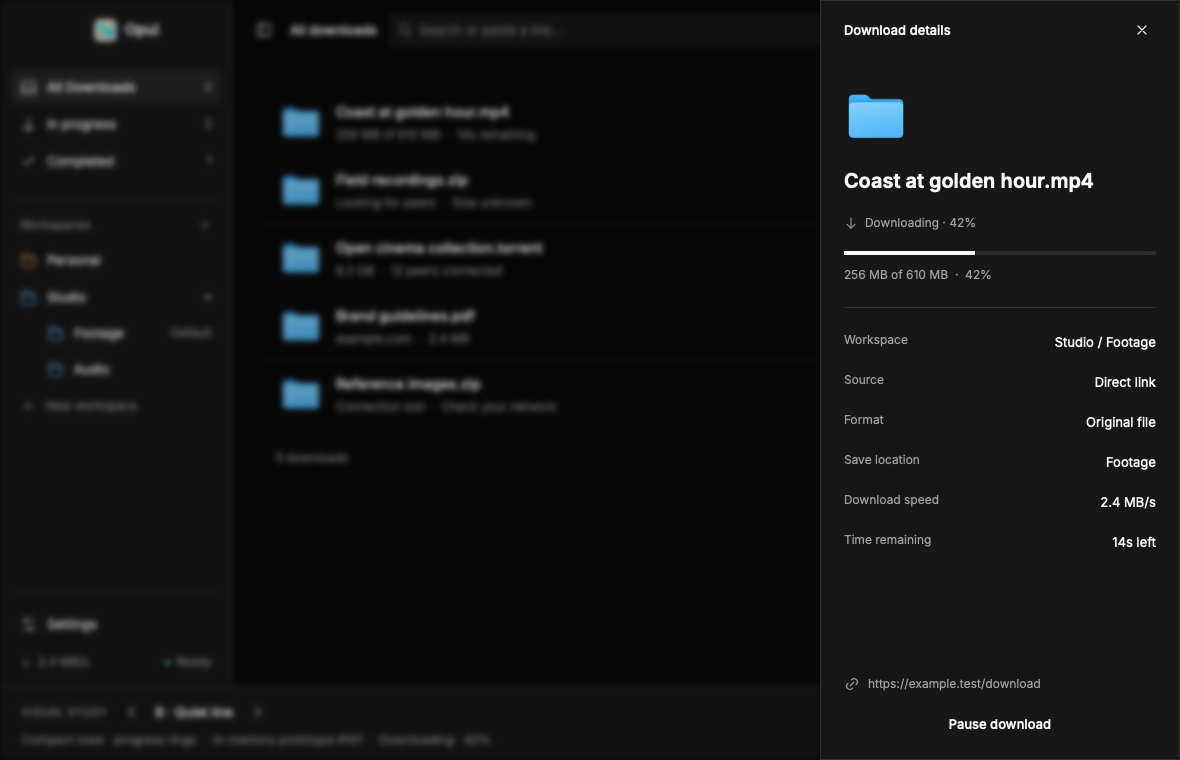
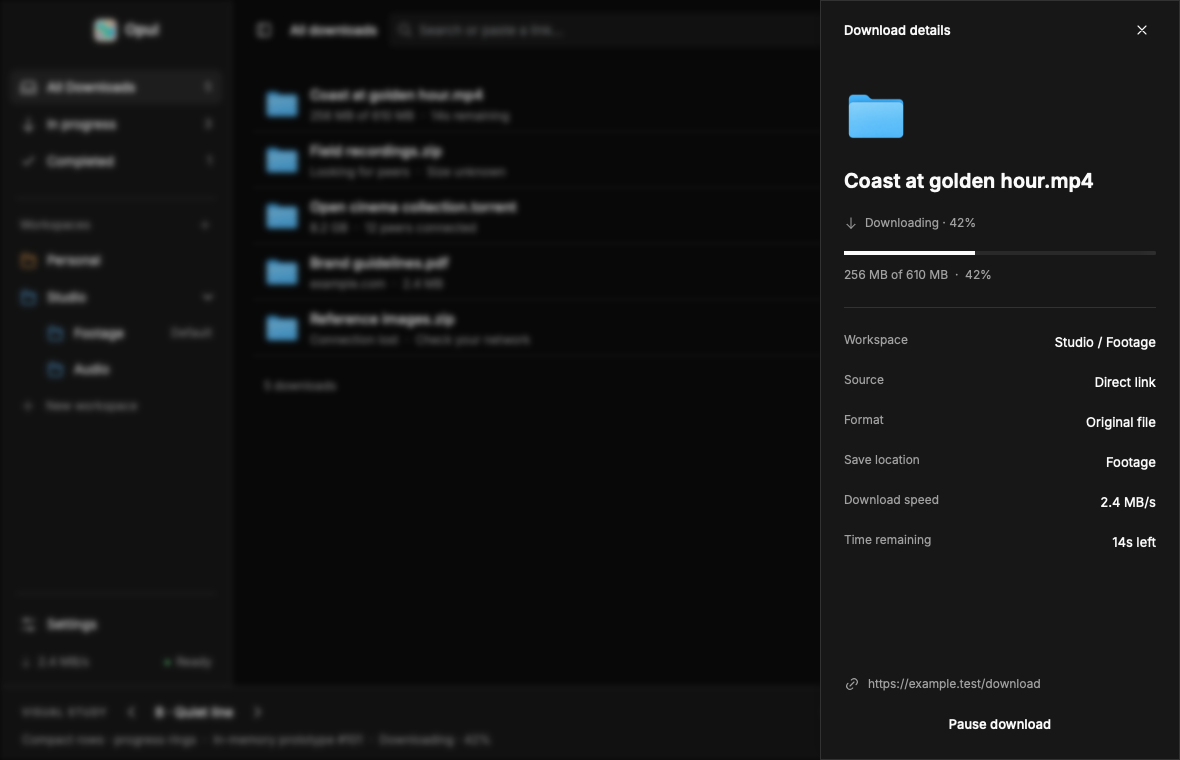
Tighten the minimal prototype list spacing (#101)

Changed region(s): [[0.2136, 0.0908, 0.4576, 0.4539], [0.2136, 0.4842, 0.4881, 0.5447], [0.2441, 0.575, 0.3051, 0.6053]]

diff --git a/prototypes/rune-visual/src/ui/download.rs b/prototypes/rune-visual/src/ui/download.rs
@@ -1,6 +1,7 @@
 use super::*;
 
 pub(super) fn download(s: &Preview, index: usize, k: &Kit, narrow: bool) -> El {
+    let compact = s.minimal || matches!(s.treatment, Treatment::List);
     let description = match index {
         0 => match s.transfer {
             Transfer::Downloading => "256 MB of 610 MB  ·  14s remaining",
@@ -17,23 +18,26 @@ pub(super) fn download(s: &Preview, index: usize, k: &Kit, narrow: bool) -> El {
         .key(format!("row-{index}"))
         .w_full()
         .h(if s.minimal && !narrow {
-            58.0
+            50.0
         } else {
             s.treatment.row_height()
         })
-        .px(16.0)
-        .gap(14.0)
+        .px(if compact { 12.0 } else { 16.0 })
+        .gap(if compact { 10.0 } else { 14.0 })
         .center_y()
         .child(
-            el().size(42.0, 42.0)
-                .pixels(s.artwork[1].pixels())
-                .a11y_hidden(),
+            el().size(
+                if compact { 36.0 } else { 42.0 },
+                if compact { 36.0 } else { 42.0 },
+            )
+            .pixels(s.artwork[1].pixels())
+            .a11y_hidden(),
         )
         .child(
             col()
                 .grow(1.0)
                 .min_w(0.0)
-                .gap(5.0)
+                .gap(if compact { 3.0 } else { 5.0 })
                 .child(
                     Button::new(FILES[index])
                         .variant(ButtonVariant::Ghost)

diff --git a/prototypes/rune-visual/src/ui.rs b/prototypes/rune-visual/src/ui.rs
@@ -151,6 +151,7 @@ pub fn view(s: &Preview, cx: &mut Cx<Preview>) -> El {
             count += 1;
         }
     }
+    let compact = s.minimal || matches!(s.treatment, Treatment::List);
     let content = col()
         .key("content")
         .grow(1.0)
@@ -165,8 +166,8 @@ pub fn view(s: &Preview, cx: &mut Cx<Preview>) -> El {
                 .scroll(rune::ScrollSpec {
                     stick_bottom: false,
                 })
-                .padding(if narrow { 20.0 } else { 32.0 })
-                .pt(28.0)
+                .padding(if narrow || compact { 20.0 } else { 32.0 })
+                .pt(if compact { 16.0 } else { 28.0 })
                 .child(list)
                 .child(caption(format!("{count} downloads"), &k).pt(22.0).pl(12.0)),
         );

diff --git a/prototypes/rune-visual/src/main.rs b/prototypes/rune-visual/src/main.rs
@@ -112,6 +112,10 @@ fn main() {
         scenes: &[
             ("cards", |s: &mut Preview| s.treatment = Treatment::Cards),
             ("list", |s: &mut Preview| s.treatment = Treatment::List),
+            ("minimal", |s: &mut Preview| {
+                s.treatment = Treatment::List;
+                s.minimal = true;
+            }),
             ("panels", |s: &mut Preview| s.treatment = Treatment::Panels),
         ],
         on_key: Some(|s, event, tx| {

diff --git a/prototypes/rune-visual/src/theme.rs b/prototypes/rune-visual/src/theme.rs
@@ -38,7 +38,7 @@ impl Treatment {
     pub fn row_height(self) -> f32 {
         match self {
             Self::Cards => 76.0,
-            Self::List => 68.0,
+            Self::List => 56.0,
             Self::Panels => 80.0,
         }
     }

diff --git a/docs/rune/visual-treatment.md b/docs/rune/visual-treatment.md
@@ -1,6 +1,6 @@
 # Native visual study for #101
 
-**Status: visual review remains open. No treatment has been selected.** The maintainer rejected the initial three generic demos. This revision restores the actual Opul toolbar, logo/folder artwork, sidebar hierarchy, counts, compact Download rows and details hierarchy before comparing treatments. Do not interpret a default scene or an agent preference as design approval.
+**Status: the maintainer prefers the minimal direction; tighter spacing is under review.** The current request is to reduce visual space around the list items while continuing to treat this as a visual prototype. The minimal scene below opens that revision directly.
 
 The question is: **which restrained Rune-kit surface, density and progress treatment suits Opul's existing layout?** The comparison preserves the layout and semantic colors. Production implementation, real transfers, persistence and full interaction parity remain separate tickets.
 
@@ -8,13 +8,16 @@ The question is: **which restrained Rune-kit surface, density and progress treat
 
 ```sh
 Scripts/rune-visual.sh
+
+# Preferred minimal direction with tighter spacing:
+Scripts/rune-visual.sh --scene minimal --theme light
 ```
 
 This builds and opens a native Rune window. Everything is in memory. The visible study strip is outside the product layout. Left/Right or its arrows wrap through the treatments. Those shortcuts leave a focused search field alone. Search filters the fixtures, and a title or ellipsis opens the modal sheet. Close, Escape and an outside click dismiss it; the outside click is consumed. Pause/resume updates the fixture in the sheet and list together.
 
 System/Light/Dark, Motion/Reduced, Cards/Minimal, one/two Studio folders, and the State control expose the comparison states. The State control cycles downloading, paused, completed, failed and back. Personal is always a simple Workspace row; Studio becomes collapsible with two Saved Folders. Narrow windows use a modal sidebar. Settings, New workspace and filter/sort artwork are context, not implemented flows.
 
-Minimal removes card/group surfaces and compacts wide rows to 58pt. Narrow rows keep room for inline progress and seeding text.
+Minimal removes card/group surfaces and compacts wide rows from 58pt to 50pt. Its row inset is 12pt, artwork is 36pt, and the title/description gap is 3pt. Narrow rows keep room for inline progress and seeding text.
 
 ## Treatments under review
 
@@ -23,10 +26,10 @@ These are proposals, not selected tokens. All use Rune-kit's Inter, 14pt/500 Dow
 | Treatment | Rows and surfaces | Spacing and radii | Progress and sheet |
 | --- | --- | --- | --- |
 | A · Soft edge | Separate cards, thin semantic borders, subtle 1pt drop shadow | 76pt rows, 16pt horizontal inset, 8pt gaps, 10pt corners | Trailing horizontal progress; flush right sheet |
-| B · Quiet line | Continuous divided rows without card shadows | 68pt rows, 16pt horizontal inset, no gaps, 4pt control corners | Trailing progress ring; flush right sheet |
+| B · Quiet line | Continuous divided rows without card shadows | 56pt rows, 12pt horizontal inset, no gaps, 4pt control corners | Trailing progress ring; flush right sheet |
 | C · Inset panel | One shared surface with internal rules | 80pt rows, 16pt horizontal inset, 12pt group corners | Horizontal progress; sheet inset 12pt with 12pt corners |
 
-The shared content inset is 32pt, 20pt at narrow widths. Controls use Rune-kit's focus ring and input behavior, with a 2pt blue ring for custom sidebar navigation. Reduced motion follows the OS and can also be enabled in the study. The proposed sheet uses Rune's modal stack for focus containment, background inertness, dismissal and focus restoration.
+The content inset is 32pt for the card/panel studies and 20pt for the minimal direction and narrow windows. The minimal list starts 16pt below the toolbar, reduced from 28pt. Controls use Rune-kit's focus ring and input behavior, with a 2pt blue ring for custom sidebar navigation. Reduced motion follows the OS and can also be enabled in the study. The proposed sheet uses Rune's modal stack for focus containment, background inertness, dismissal and focus restoration.
 
 ## Captures
 
@@ -95,6 +98,6 @@ Independent Standards and Spec reviews found no implementation issues. The Spec 
 
 ## Decision record
 
-The initial options were rejected as ugly and insufficient for a choice. They have been replaced, and their captures are not the handoff. The current revision is awaiting review. Selected typography, spacing, radii, surfaces, focus, motion and the maintainer's rationale are all **pending**. #101 must stay open, and #99/#102 must retain the visual-selection gate before broader presentation work.
+The initial options were rejected as ugly and insufficient for a choice. The replacement restores Opul's toolbar, artwork, sidebar and details hierarchy. The maintainer now prefers the minimal direction as a visual direction and requested less space around list items. This revision tightens row height, horizontal padding, artwork size, text gaps and the list's outer inset. The spacing revision and remaining typography, radii, focus and motion decisions still await review; #101 stays open.
 
 Once a treatment or a mix is selected, record the exact decisions and rationale here and on #101. Critical unresolved designs return to this native playground. Keep all alternatives disposable on `integration/99-rune-redesign`; rebuild the selected treatment as attributed, owned, tested production components.

diff --git a/prototypes/rune-visual/README.md b/prototypes/rune-visual/README.md
@@ -15,6 +15,7 @@ Start directly with a treatment:
 ```sh
 Scripts/rune-visual.sh --scene cards --theme light
 Scripts/rune-visual.sh --scene list --theme dark
+Scripts/rune-visual.sh --scene minimal --theme light
 Scripts/rune-visual.sh --scene panels --size 600x720
 ```
 
